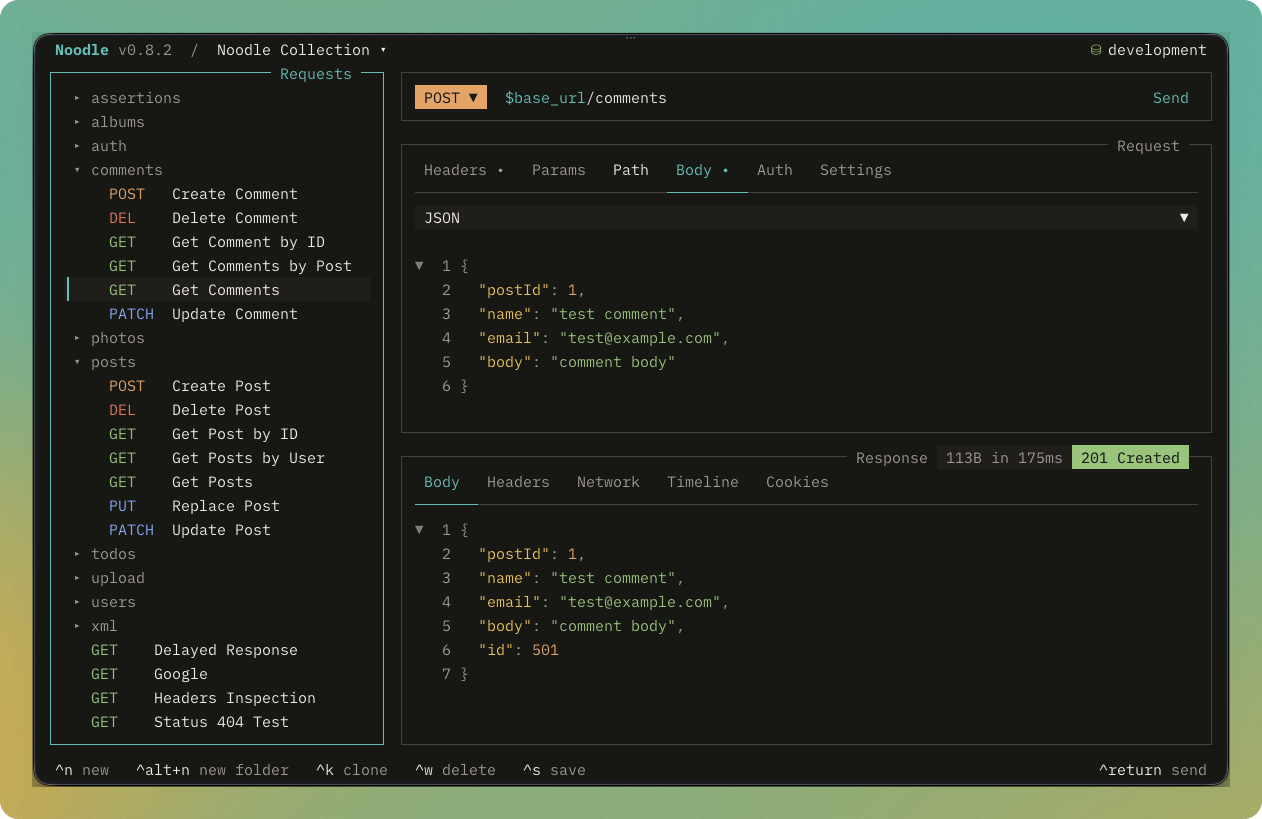
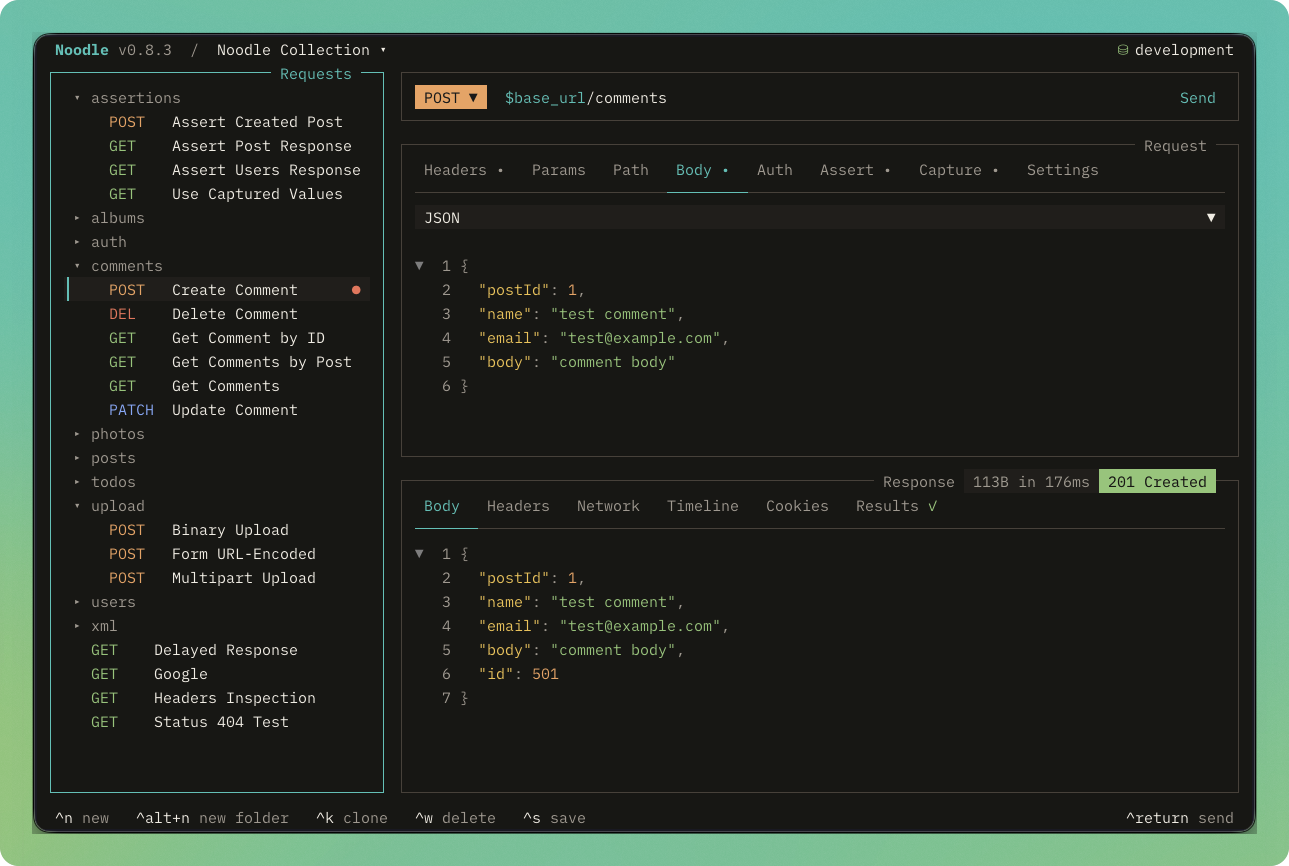
chore(release): prepare v0.8.3

diff --git a/tests/unit/AuthEditor.test.tsx b/tests/unit/AuthEditor.test.tsx
@@ -69,7 +69,7 @@ describe("AuthEditor", () => {
     expect(frame).toContain("Public identifier for the OAuth client.")
     expect(frame).toContain("Algorithm used to sign the request.")
     expect(frame).toContain("RSA private key used for RSA signatures.")
-    expect(frame).toContain("Legacy grant")
+    expect(frame).toMatch(/Legacy\s+grant/)
     expect(frame).toContain("OAuth flow used to obtain the access token.")
     expect(frame).toContain("Resource-owner username for the password grant.")
     expect(frame).toContain("Endpoint used to exchange credentials")

diff --git a/AGENTS.md b/AGENTS.md
@@ -7,7 +7,7 @@ Terminal REST client. Inspect, send, and iterate on HTTP requests from YAML file
 ```bash
 bun install
 bun run dev -- --collection ./collections --env development
-bun test                              # all tests (2913 across 189 files)
+bun test                              # all tests (3067 across 202 files)
 bun test tests/lang.test.ts           # single file
 bun run audit                         # fail on vulnerable dependencies
 bun run lint                          # oxlint
@@ -27,7 +27,7 @@ noodle export <collection> --format <openapi|postman> --output <file|dir>
 noodle update
 noodle agent install [--json] [--force]
 noodle workspace list [--json]
-noodle collection run <path> [<target>...] [--env <name>] [--tag <tag>] [--exclude-tag <tag>] [--fail-fast] [--noproxy] [--insecure] [--json]
+noodle collection run <path> [<target>...] [--env <name>] [--tag <tag>]... [--exclude-tag <tag>]... [--fail-fast] [--noproxy] [--insecure] [--json]
 noodle collection <create|init|list|inspect|format|audit> ... [--json]
 noodle request <create|run> ... [--noproxy] [--insecure] [--json]
 noodle cookie <list|clear> --collection <dir> [--json]
@@ -40,9 +40,9 @@ noodle secret <set|list|delete> ... --env <name> [--collection <dir>] [--json]
 - **Export subcommand**: `collection` (positional, required), `--format` (`openapi` or `postman`), and `--output/-o` (a file for OpenAPI, or a new/empty directory for Postman). Postman creates `collection.postman_collection.json` plus one redacted environment file per environment; it preserves literal request values except that `@/` file paths expand to absolute home paths, so review exports for secrets and local path disclosure before sharing.
 - **Update subcommand**: Self-update. Reads `https://noodlerest.dev/update.json`, caches verified release metadata for one hour (with a seven-day stale fallback), and SHA-256 verifies standalone binaries before replacement. Detects Homebrew installs and runs `brew upgrade noodle`; unavailable in Bun development runtime.
 - **Agent subcommand**: `agent install` writes the embedded `noodle-use` skill to `~/.agents/skills/noodle-use` and links detected Claude, Cursor, Codex, and OpenCode installations to that managed copy. It preserves unmanaged targets by default and reports every conflict; `--force` deliberately replaces all reported paths with backup-backed rollback if any target fails. Existing managed installations refresh after successful standalone, Homebrew, TUI, and curl-installer updates; refresh failures do not roll back Noodle and include a retry command.
-- **Automation commands**: `workspace list`, `workspace audit [--fix]`; `collection create`, `init`, `list`, `inspect`, `format`, `audit [--fix]`, `run [<target>...] [--env] [--tag] [--exclude-tag] [--fail-fast] [--noproxy] [--insecure]`; `request create --url --method --collection`, `run [--env] [--noproxy] [--insecure]`; `environment set`; `secret set|list|delete`; and `cookie list|clear --collection`. They are non-interactive and support `--json`, which writes one `{ status, data, errors }` envelope and uses a nonzero exit status for invalid input, failed HTTP responses, failed captures, or failed assertions. Collection-run targets are request IDs or folder paths ending in `/`; folders include nested requests, overlapping targets run once in collection order, and omitting targets runs the whole collection. Request and non-root folder tags form case-sensitive dynamic suites; exclusion wins, and fail-fast records later selected requests as skipped. `cookie list` prints jar contents grouped by domain (values included); `cookie clear` empties the jar. `secret set` prompts without echo in a TTY or accepts `--stdin`. `collection format` canonicalizes request YAML and pretty-prints valid JSON bodies without lossy numeric conversion; imports run it automatically. `collection init` bootstraps missing collection markers in an existing directory and registers it. `workspace audit --fix` removes invalid registered paths.
+- **Automation commands**: `workspace list`, `workspace audit [--fix]`; `collection create`, `init`, `list`, `inspect`, `format`, `audit [--fix]`, `run [<target>...] [--env] [--tag]... [--exclude-tag]... [--fail-fast] [--noproxy] [--insecure]`; `request create --url --method --collection`, `run [--env] [--noproxy] [--insecure]`; `environment set`; `secret set|list|delete`; and `cookie list|clear --collection`. They are non-interactive and support `--json`, which writes one `{ status, data, errors }` envelope and uses a nonzero exit status for invalid input, failed HTTP responses, failed captures, or failed assertions. Collection-run targets are request IDs or folder paths ending in `/`; folders include nested requests, overlapping targets run once in collection order, and omitting targets runs the whole collection. Request and non-root folder tags form case-sensitive dynamic suites; repeated include tags all must match, any repeated exclude tag removes a request, exclusion wins, and fail-fast records later selected requests as skipped. `cookie list` prints jar contents grouped by domain (values included); `cookie clear` empties the jar. `secret set` prompts without echo in a TTY or accepts `--stdin`. `collection format` canonicalizes request YAML and pretty-prints valid JSON bodies without lossy numeric conversion; imports run it automatically. `collection init` bootstraps missing collection markers in an existing directory and registers it. `workspace audit --fix` removes invalid registered paths.
 - **Automation environment selection**: `request run` and `collection run` use `--env` when supplied; otherwise they use the collection root's `settings.yml` environment.
-- **Run-scoped variables**: Every `request run` gets an isolated `RunScope`; every `collection run` shares one scope across its ordered requests. Resolved environment and secret values load first, then successful captures override the same names, with the latest successful capture winning. Failed captures leave prior values unchanged. Scope values never modify collection or environment files and disappear when the command returns.
+- **Run-scoped variables**: Every manual TUI send and `request run` gets an isolated `RunScope`; every `collection run` shares one scope across its ordered requests. Resolved environment and secret values load first, then successful captures override the same names, with the latest successful capture winning. Failed captures leave prior values unchanged. Transient values disappear when the call returns. Manual sends and `request run` may persist captures declared with `persist`; collection runs and the TUI Runner ignore persistence.
 - **TUI path modes**: Existing collection roots open in collection mode. Directories containing request YAML but no collection markers open in read-only browse mode; empty directories open in read-only empty mode. Invalid or non-directory paths exit with an error. Initialize browse/empty directories from the command palette before editing or sending.
 - `--help`, `--version` auto-generated by citty
 
@@ -60,9 +60,12 @@ noodle secret <set|list|delete> ... --env <name> [--collection <dir>] [--json]
 
 ```
 src/
-├── assertions.ts  # Declarative response assertion evaluation for automation runs
+├── assertions.ts  # Declarative response assertion evaluation
+├── executionResults.ts # Shared capture-before-assertion response execution
 ├── response.ts    # Shared response expression parser and resolver
 ├── runScope.ts    # Transient capture values and capture result evaluation
+├── tags.ts        # Tag validation and effective inheritance
+├── timelineEntry.ts # Shared redacted timeline entry construction
 ├── schema/        # Types: Method, Auth, Request, Collection, Response, Environment, ParamEntry, FormEntry, KvEntry
 ├── lang/          # YAML request language: parse + serialize
 │   ├── auth.ts     # Shared strict auth parsing and serialization
@@ -81,7 +84,7 @@ src/
 │   ├── useCollection.ts, useTreeNavigation.ts, useSidebarSelection.ts
 │   ├── useRequestDraft.ts, useFolderDraft.ts
 │   ├── useEditBrowse.ts, useFolderEditBrowse.ts
-│   ├── useResponse.ts, useEnvironments.ts, useEnvironmentEditor.ts
+│   ├── useResponse.ts, useCollectionRunner.ts, useEnvironments.ts, useEnvironmentEditor.ts
 │   ├── useConfig.ts
 │   └── useKeymap.ts
 ├── converters/
@@ -107,15 +110,17 @@ src/
     │   ├── CookieJarSidebar.tsx # Domain list with cookie counts
     │   └── CookieJarPane.tsx  # Cookie table for the selected domain
     ├── Sidebar.tsx          # Tree sidebar: requests, folders, dirty indicators, method badges
-    ├── RequestPane.tsx      # Full request detail + inline editing (6 tabs, including path params)
-    ├── ResponsePane.tsx     # Foldable response body + headers, network trace, timeline
+    ├── RequestPane.tsx      # Full request detail + inline editing (8 tabs)
+    ├── ResponsePane.tsx     # Response body, headers, trace, timeline, cookies, Results
+    ├── ResponseResults.tsx  # Shared expandable assertion/capture results
+    ├── CollectionRunnerView.tsx # Transient collection-run configuration and results
     ├── FolderPane.tsx       # Folder editor: meta, headers, auth overrides, activity
     ├── FolderMetaTab.tsx    # Folder name/seq editing
     ├── FolderActivityTab.tsx # Per-request activity stats in folder
     ├── UrlBar.tsx           # URL editing bar with env substitution
     ├── VarInput.tsx         # Variable-aware input/textarea with completion popup
     ├── VarText.tsx          # Variable-highlighted read-only text rendering
-    ├── KeyValueSection.tsx  # Key/Value pair editor (headers/params)
+    ├── KeyValueSection.tsx  # Key/Value pair editor (headers/params/captures)
     ├── AuthEditor.tsx       # Auth type selector + rows for all supported auth schemes
     ├── authRows.ts          # Auth field metadata shared by request and folder editors
     ├── FormEditor.tsx       # Multipart/urlencoded form editor with text/file toggle
@@ -130,6 +135,7 @@ src/
     │   ├── HelpOverlay.tsx             # F1 keybinding cheatsheet overlay
     │   ├── ConfirmOverlay.tsx          # Yes/No confirmation dialog
     │   ├── NewRequestOverlay.tsx, CloneRequestOverlay.tsx, NewFolderOverlay.tsx
+    │   ├── TagEditorOverlay.tsx       # Request and Runner tag editing
     │   └── Overlay.tsx                 # Generic overlay (modal) container
     ├── [editor]
     │   ├── CodeEditor.ts              # CodeEditorRenderable class (tree-sitter highlight, folding, validation)
@@ -155,7 +161,7 @@ src/
     │   ├── keybind.ts                  # Keybinding definitions, CommandMap, parseOverrides
     │   ├── helpTexts.ts                # Help overlay section/keys builder
     │   ├── useJumpMode.ts              # Jump mode hook (leader-key focus jumps)
-    │   ├── useAppKeymap.ts             # All keymap layers (16 layers)
+    │   ├── useAppKeymap.ts             # All keymap layers (17 layers)
     │   ├── focus.ts                    # Focus type, cycleFocus, toggleExpand
     │   ├── commands.ts                 # buildCommandPaletteCommands
     │   ├── commandActions.ts           # All command action implementations
@@ -204,8 +210,8 @@ tests/integration/ # Integration tests
 - **Do NOT commit** `docs/`, `CONTINUE.md`, `.superpowers/`, `.timeline/` (all gitignored).
 - **Commit style:** `feat(scope):`, `fix(scope):`, `test(scope):`, `refactor(scope):`, `style:`, `docs:`.
 - **Requests are `.yml` files**, one per request. Extension is `.yml` not `.yaml`. Optional `sendCookies: false` disables the collection cookie jar for that request (serialized only when set; parsed strictly like `followRedirects`/`maxRedirects`).
-- **Response assertions**: Optional request `assert` blocks are evaluated by non-interactive `request run` and `collection run`. Expressions address `status`, `response.time`, case-insensitive `headers.<name>`, and JSON `body` paths. Failed assertions make the run fail; assertion expected values support recursive environment substitution, and secret expected values are redacted from results.
-- **Response captures**: Optional request `capture` mappings bind response expressions to RunScope variable names during non-interactive runs. Captures and assertions share `createResponseResolver()`. Successful captures commit before assertions, including on HTTP error responses; missing or invalid traversal results fail the capture without creating or replacing a variable. Capture failures fail the request but collection execution continues. TUI sends preserve declarations but do not evaluate them.
+- **Response assertions**: Optional request `assert` blocks are evaluated by manual TUI sends, `request run`, and `collection run`. Each row accepts optional `enabled: false`; disabled rows remain validated and editable but produce no outcomes. Expressions address `status`, `response.time`, case-insensitive `headers.<name>`, and JSON `body` paths. Failed assertions make automation runs fail; assertion expected values support recursive environment substitution, and secret expected values are redacted from results.
+- **Response captures**: Optional request `capture` mappings bind response expressions to RunScope variable names. Every entry is an object with required `value`, optional `enabled: false`, and optional `persist: secret|environment`; scalar shorthand is invalid. Captures and assertions share `createResponseResolver()`. Successful captures commit before assertions, including on HTTP error responses; missing or invalid traversal results fail without creating or replacing a variable. Manual sends and `request run` honor persistence, while `collection run` and the TUI Runner keep captures transient. Secret-persisted capture values are fully redacted.
 - **Request IDs** are collection-relative paths without `.yml`; reject traversal, absolute paths, backslashes, empty segments, and hidden segments.
 - **Request bodies** support `none`, `json`, `xml`, `multipart`, `urlencoded`, and `binary`. XML bodies use the code editor, default to `application/xml` when no enabled Content-Type exists, and are sent unchanged after variable substitution.
 - **Environments are `.env` files** under `<collection>/.environments/`. Format is `KEY=value` (dotenv-style, not YAML). Lines starting with `#` disable a var. `_color=<name>` sets sidebar badge color. `# @secret NAME` followed by a blank `NAME=` placeholder declares a credential-vault value; process environment wins over the stored value.
@@ -266,7 +272,7 @@ command_palette: ctrl+p
 
 In browse or empty mode, collection-only actions above are unavailable. Command palette still exposes inspection, reload, layout, theme, help, and collection initialization actions.
 
-The command palette also provides **Import Collection** (as a new collection or into the current collection), **Export Collection** (OpenAPI or Postman), **Import cURL Request**, **Generate Code**, **Install Noodle skill**, direct application and collection Settings categories, and actions to open the active collection or Noodle settings directory in a detected external editor. For an effective OAuth 2.0 request it also provides actions to fetch or authorize, copy, and clear the current token. Code generation supports choosing a language and library, and can optionally interpolate the active environment, but is unavailable for NTLM, AWS SigV4, OAuth 1.0a, and OAuth 2.0 requests. Save pending changes before importing into the current collection.
+The command palette also provides **Run Collection** or **Run Folder**, **Import Collection** (as a new collection or into the current collection), **Export Collection** (OpenAPI or Postman), **Import cURL Request**, **Generate Code**, **Install Noodle skill**, direct application and collection Settings categories, and actions to open the active collection or Noodle settings directory in a detected external editor. For an effective OAuth 2.0 request it also provides actions to fetch or authorize, copy, and clear the current token. Code generation supports choosing a language and library, and can optionally interpolate the active environment, but is unavailable for NTLM, AWS SigV4, OAuth 1.0a, and OAuth 2.0 requests. Save pending changes before importing into the current collection.
 
 ### Jump mode (leader-key focus jumps)
 Activated by `jump_mode` (default `g`). Shows `[letter]` hints on each focusable element; press a letter to focus that element, or `Esc` to cancel. Non-matching keys are swallowed (mode stays active).
@@ -281,12 +287,15 @@ Activated by `jump_mode` (default `g`). Shows `[letter]` hints on each focusable
 | `x` | Request Path tab |
 | `b` | Request Body tab |
 | `a` | Request Auth tab / Folder Auth tab |
+| `v` | Request Assert tab |
+| `c` | Request Capture tab |
 | `t` | Request Settings tab |
 | `r` | Response Body tab |
 | `e` | Response Headers tab |
 | `n` | Response Network tab |
 | `l` | Response Timeline tab |
 | `k` | Response Cookies tab |
+| `i` | Response Results tab |
 | `y` | Folder Activity tab |
 
 When a folder is selected, the folder targets replace the request and response
@@ -323,7 +332,7 @@ In the cookie jar, only these cookie jar targets are available:
 | `Home` / `End` | Jump to first / last field |
 | `Return` | Enter edit mode |
 | `Escape` | Exit browse mode |
-| `Space` | Toggle header/param enabled/disabled |
+| `Space` | Toggle header/param/assertion/capture enabled/disabled |
 | `Ctrl+T` | Toggle form entry text/file (browse context) |
 | `Ctrl+D` | Revert current field |
 | `Ctrl+R` | Revert all fields |
@@ -361,6 +370,18 @@ In the cookie jar, only these cookie jar targets are available:
 | `s` | Toggle secure storage for the selected variable (browse mode) |
 | `r` | Reveal or mask the selected secret (browse mode) |
 
+### Collection Runner mode
+
+| Key | Action |
+|-----|--------|
+| `Tab` / `Shift+Tab` | Move between options and requests |
+| `↑/↓` | Select an option, request, folder, or result row |
+| `Space` | Toggle the selected request or folder |
+| `Enter` | Activate an option or expand a result row |
+| `r` | Start the configured run from options |
+| `←` | Return from results to configuration |
+| `Esc` | Close the Runner |
+
 ### Cookie jar mode
 
 | Key | Action |
@@ -381,12 +402,14 @@ The cookie jar is opened from the command palette (**Cookies**). It captures `Se
 
 ## Focus model
 
-4 pane cycles controlled by the active view (main, folder, env editor, cookie jar):
+Pane cycles are controlled by the active view:
 
 - **Main view:** `sidebar → urlbar → request → response` (4 panes). Tab/Shift+Tab wraps. URL bar has method and URL sub-focuses; Tab moves between them while focused.
 - **Folder view:** `sidebar → folder` (2 panes, when a folder is the selected item).
 - **Env editor:** `env-sidebar → env-header → env-vars` (3 panes).
 - **Cookie jar:** `cookie-sidebar → cookie-list` (2 panes).
+- **Settings:** `settings-sidebar → settings-content` (2 panes).
+- **Collection Runner:** `runner-options → runner-requests` (2 panes).
 
 Active pane gets cyan border + `▸` prefix. Global keys work regardless of focus. Context-dependent bindings (`Ctrl+S`, `Ctrl+N`, `Ctrl+K`, `Ctrl+W`, `Ctrl+T`) dispatch to the appropriate action based on which pane is focused. Skips hidden panes when expanded mode (F2) collapses request or response.
 

diff --git a/.agents/skills/noodle-dev/SKILL.md b/.agents/skills/noodle-dev/SKILL.md
@@ -57,7 +57,7 @@ configuration, keybindings, persistence, or backwards compatibility.
 - **YAML files:** `.yml` extension (not `.yaml`). Requests stored one-per-file in collection dir.
 - **Environments:** Dotenv-style `.env` files in `<collection>/.environments/`. `_color=<name>` sets the sidebar badge. `# @secret NAME` plus a blank placeholder declares an OS-vault secret; `process.env.NAME` takes precedence over the stored value.
 - **Draft pattern:** `useRequestDraft` holds `Map<id, Request>` of dirty edits. `DraftOp` and mutation logic live in `requestDraftReducer.ts`. Compare with `isDirty` via deep equality.
-- **Focus model:** `"sidebar" → "urlbar" → "request" → "response"` (main). URL bar has method and URL sub-focuses. `"env-sidebar" → "env-header" → "env-vars"` (env editor). `"cookie-sidebar" → "cookie-list"` (cookie jar). Skips hidden panes.
+- **Focus model:** `"sidebar" → "urlbar" → "request" → "response"` (main). URL bar has method and URL sub-focuses. `"env-sidebar" → "env-header" → "env-vars"` (env editor). `"cookie-sidebar" → "cookie-list"` (cookie jar). `"runner-options" → "runner-requests"` (collection Runner). Skips hidden panes.
 - **Resizable main layout:** `AppInner.tsx` owns the sidebar width and separate stacked and side-by-side split ratios. `MainView.tsx` handles mouse drag state, responsive minimums, and double-click reset; `RequestResponseView.tsx` renders the layout-specific handles. Keep sizing session-only unless persistence is explicitly requested, and stop resize events from changing pane focus.
 - **Keymap layers:** `src/ui/keymap/*Layers.ts` defines bindings gated on `focus`, `mode`, `overlay`, and `view`; `layers.ts` assembles them. Use `useBindings()` from `@opentui/keymap/react`.
 - **Edit/Browse FSM:** Three modes — `inactive → browsing → editing`. `useEditBrowse` hook manages cursor, commit, cancel.
@@ -66,10 +66,11 @@ configuration, keybindings, persistence, or backwards compatibility.
 - **Response bodies:** `ResponsePane` uses a read-only `CodeEditorRenderable` with source-numbered folds and a themed scrollbar. Folded selections and body copying must return the original source, not the collapsed display text.
 - **Environment UI:** `e` opens `EnvironmentPickerOverlay`; `F3` opens the full editor. `Ctrl+N` in the editor opens `NewEnvironmentOverlay`, and `useEnvironmentEditor.createEnv()` persists the validated name and optional color.
 - **Collection formatting:** `collection format <path>` loads and rewrites every request with canonical YAML, pretty-printing valid JSON bodies through `formatJson`. Invalid JSON remains unchanged, and valid numeric literals must retain their original precision. Imports run this formatter after writing the collection.
-- **Response assertions:** `src/response.ts` parses and resolves `status`, `response.time`, case-insensitive header, and JSON body expressions. `src/assertions.ts` evaluates the typed operators. Automation services substitute expected string values, redact expected secrets, preserve server actual values in JSON, and fail the run on HTTP or assertion failure. TUI sends do not evaluate assertions.
-- **Response captures and RunScope:** Request `capture` mappings use the same `src/response.ts` resolver as assertions. `src/runScope.ts` stores typed successful values for one top-level automation call and exposes an environment overlay to `substitute()`. Environment values load first; scope values override them; the latest successful capture wins. Captures commit before assertions and are available only to later requests. Missing or resolution failures do not create or replace values. Capture declarations persist in request YAML but are excluded from timeline snapshots; RunScope values and capture results never enter timeline or configuration persistence. TUI sends preserve declarations but do not evaluate them.
+- **Response assertions:** `src/response.ts` parses and resolves `status`, `response.time`, case-insensitive header, and JSON body expressions. `src/assertions.ts` evaluates typed operators. `src/executionResults.ts` orchestrates capture-before-assertion execution for manual TUI sends and automation. Disabled assertions remain validated and editable but produce no results. Expected secret values are redacted; server actuals remain visible in live/JSON results, while known secret values in assertion metadata are redacted before timeline persistence.
+- **Response captures and RunScope:** Every request `capture` entry is an object with required `value`, optional `enabled`, and optional `persist`; scalar shorthand is invalid. `src/runScope.ts` stores typed successful values for one top-level call and exposes an environment overlay to `substitute()`. Captures commit before assertions, failed captures do not replace prior values, and disabled captures produce no mutation or result. Manual sends and `request run` may persist plaintext or secret values through `persistResponseCaptures()`; collection runs and the TUI Runner ignore persistence. Capture declarations persist in request YAML but are excluded from timeline snapshots; capture results and RunScope values never enter timeline history.
+- **Collection Runner:** `useCollectionRunner.ts` owns transient request/folder selection, environment, include/exclude tags, fail-fast state, progress, and in-memory results. `CollectionRunnerView.tsx` renders the two-pane workspace and shared expandable `ResponseResults`; `runnerLayers.ts` owns navigation. It composes `selectCollectionRunRequests()` and `collectionRun()` rather than owning alternate request declaration editors or execution semantics.
 - **Selective collection runs:** `collection run <path> [<target>...]` accepts request IDs and folder paths ending in `/`. Resolve and validate all targets before sending, include nested folder requests, deduplicate overlaps, and retain collection order.
-- **Collection suites:** Optional request and non-root folder `tags` form dynamic suites. Effective tags are the union across the ancestor chain. Collection targets resolve first, then `--tag` inclusion and `--exclude-tag` exclusion run before environment, proxy, TLS, cookies, or execution. Preserve collection order, RunScope isolation, fixed failure-category ordering, fail-fast skips, and exit codes `0` success, `1` completed failure, `2` configuration failure.
+- **Collection suites:** Optional request and non-root folder `tags` form dynamic suites. Effective tags are the union across the ancestor chain. Collection targets resolve first, then repeated `--tag` values use AND matching and repeated `--exclude-tag` values use OR matching before environment, proxy, TLS, cookies, or execution. Preserve collection order, RunScope isolation, fixed failure-category ordering, fail-fast skips, and exit codes `0` success, `1` completed failure, `2` configuration failure.
 - **File I/O:** Save/delete operations validate path IDs to prevent traversal. Environment and settings saves are atomic via temporary files plus `rename()`; request and folder writes are direct writes.
 - **Collection modes:** TUI opens collection roots in editable collection mode, request-containing uninitialized directories in read-only browse mode, and empty directories in read-only empty mode. Initialize through the command palette before editing or sending. Invalid request or folder YAML opens `CollectionErrorView`, which reuses `YamlFileEditor` for per-file repair drafts, validation, save, and delete actions.
 - **Updates:** `src/app/commands/update.ts` reads the versioned `https://noodlerest.dev/update.json` manifest, caches validated checksums, and verifies the matching binary before replacement. `useUpdateFlow` checks and installs updates when the TUI starts, while `Header` and `AboutOverlay` render progress. After a successful standalone or Homebrew update, `updateInstall.ts` refreshes an existing managed `noodle-use` skill with the new executable; refresh failure is non-fatal and must surface `noodle agent install` as the retry. Keep manifest schema, release workflow publishing, installation docs, and update tests synchronized when changing this flow.

diff --git a/CHANGELOG.md b/CHANGELOG.md
@@ -4,28 +4,41 @@ All notable changes to Noodle are documented in this file.
 
 ## [Unreleased]
 
+## [0.8.3] - 2026-08-31
+
+![Noodle Assert and Results tabs with ten passing assertions](https://raw.githubusercontent.com/wilfredinni/noodle/main/assets/assertions.png)
+
+Noodle 0.8.3 brings response assertions, captures, and collection execution into the TUI. Requests now have dedicated Assert and Capture authoring, manual sends show Results and can persist captures, and the collection Runner provides a transient workspace for selecting and inspecting ordered runs. The release also sharpens tag filtering, response-expression completion, and several response and overlay interactions.
+
+[Read the full release article.](https://noodlerest.dev/blog/noodle-0-8-3-the-workflow-comes-together/)
+
 ### ✨ Features
 
-- Split request authoring into focused Assert and Capture tabs, keep tags in Settings, preserve shared validation, and complete response expressions from the current response or latest retained timeline response.
-- Add persistent per-row Assert and Capture checkboxes, with disabled declarations retained in YAML and excluded from evaluation and results.
-- Evaluate captures and assertions on every manual send with a fresh RunScope, keep Results available, and show theme-colored success, failure, or unevaluated status on the tab.
-- Add a transient collection Runner with request selection, local environment and tag filters, fail-fast execution, progress, and detailed in-memory results.
-- Show effective request and inherited folder tags in request search, and persist redacted assertion status and details in response timeline history.
-- Add strict object-only capture declarations with optional per-capture secret or plaintext environment persistence for manual TUI sends and CLI `request run`, while keeping collection runs transient.
+- Split request authoring into focused Assert and Capture tabs, keep tags in Settings, and complete response expressions from the current response or latest retained timeline response.
+- Add per-row Assert and Capture checkboxes. Disabled declarations remain in YAML but produce no evaluation, result, summary, timeline outcome, RunScope mutation, or persisted value.
+- Evaluate enabled captures and assertions on every manual send with a fresh RunScope. Results remains the final response tab and shows a theme-colored success, failure, or unevaluated symbol when outcomes exist.
+- Add a transient collection Runner with request and folder selection, local environment and tag filters, fail-fast execution, progress, resizable panes, and expandable ordered results.
+- Require uniform capture objects with `value`, optional `enabled`, and optional `persist`. Manual sends and CLI `request run` can persist captures to plaintext or secret environment values, while collection runs and the TUI Runner remain transient.
+- Support repeated `--tag` filters with AND matching and repeated `--exclude-tag` filters with OR matching. Request search and tag editors now surface effective tags and suggestions.
+
+### 🐞 Fixes
+
+- Apply folder overrides to collection-run requests and keep Runner selection, folder toggles, and result rows aligned with active tag filters.
+- Match header response expressions case-insensitively, prevent stale responses from appearing after request changes, and preserve plain-string and structured result formatting.
+- Keep environment refresh failures non-fatal, give overlays priority over underlying panes, and add bounded scrolling to long Select and new-request folder menus.
+- Fully redact secret-persisted captures and reject CR, LF, and NUL values in the shared plaintext environment writer.
 
 ### 🔧 Refactors
 
-- Share assertion operator metadata, capture variable validation, effective-tag inheritance, request selection, and capture-before-assertion execution orchestration between the TUI and automation commands.
-
-### 🔒 Security
-
-- Keep capture results and RunScope values out of timeline history while recursively redacting known secrets from manual execution results and persisted assertion metadata.
-- Fully redact `persist: secret` capture values from every result and reject CR, LF, and NUL values in the shared plaintext environment writer.
+- Share assertion metadata, capture validation, effective-tag inheritance, request selection, response-expression resolution, and capture-before-assertion execution between the TUI and automation commands.
+- Reuse the same expandable Results rows across manual sends, timeline details, and the collection Runner while keeping capture results and RunScope values out of timeline history.
 
 ### 📚 Documentation
 
-- Document Assert, Capture, Results, and collection Runner workflows in the README, in-app help and tips, and the bundled `noodle-use` skill.
-- Document uniform capture objects, individual-run persistence, partial failures, and collection-run isolation.
+- Document Assert, Capture, Results, the collection Runner, uniform capture objects, persistence, and repeated tag filters across the README, `AGENTS.md`, in-app tips, and documentation site.
+- Update `noodle-dev` with manual response execution, capture persistence, repeated tag-filter semantics, and Runner architecture.
+- Update `noodle-use` with object-only captures, per-row enablement, individual-run persistence, collection-run isolation, repeated tag filters, and redaction guidance.
+- Refresh `opentui` from its canonical documentation structure with current package, component, testing, extension, integration, and deployment routes.
 
 ## [0.8.2] - 2026-08-27
 

diff --git a/CONTRIBUTING.md b/CONTRIBUTING.md
@@ -44,7 +44,7 @@ bun run dev -- --collection ./collections --env development
 ### Run checks before submitting
 
 ```bash
-bun test                              # 2913 tests across 189 files
+bun test                              # 3067 tests across 202 files
 bun run audit                         # dependency vulnerability audit
 bun run lint                          # oxlint
 bun run typecheck                     # tsc --noEmit
